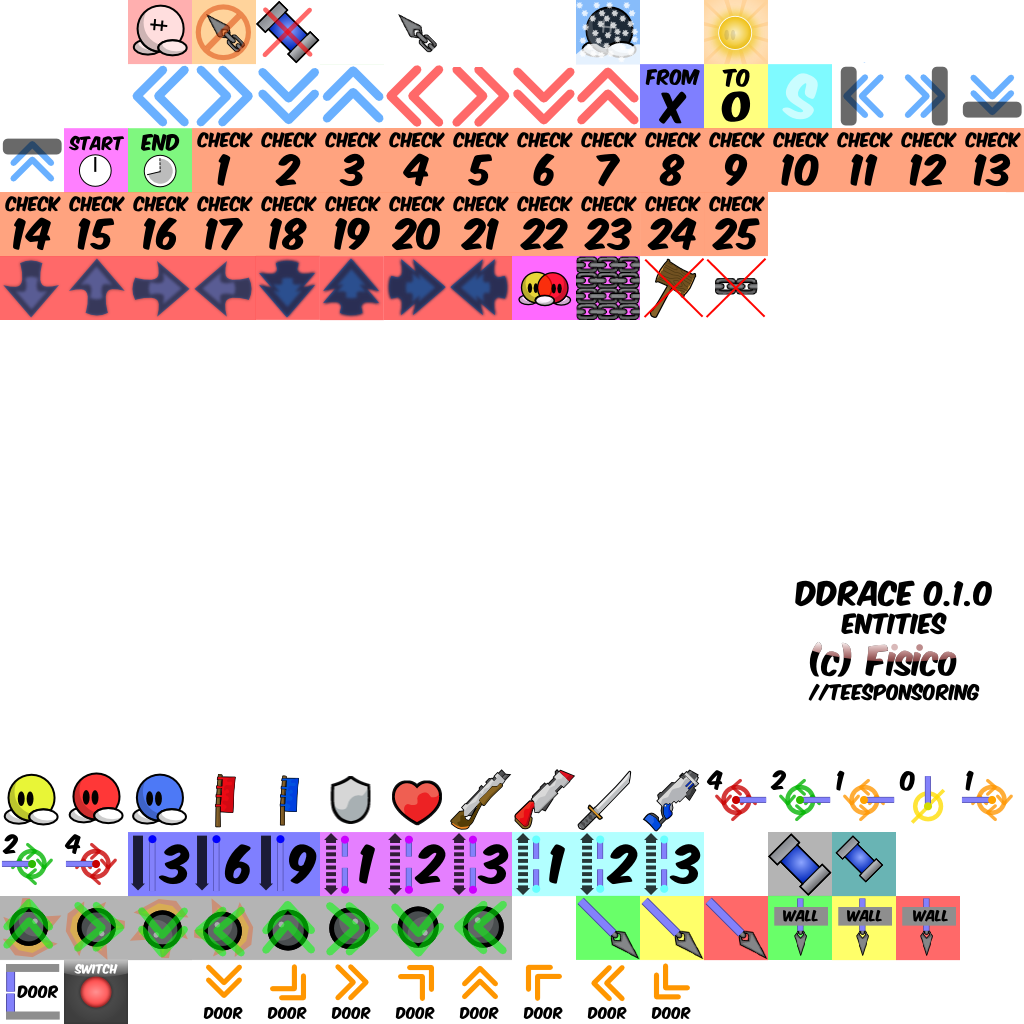
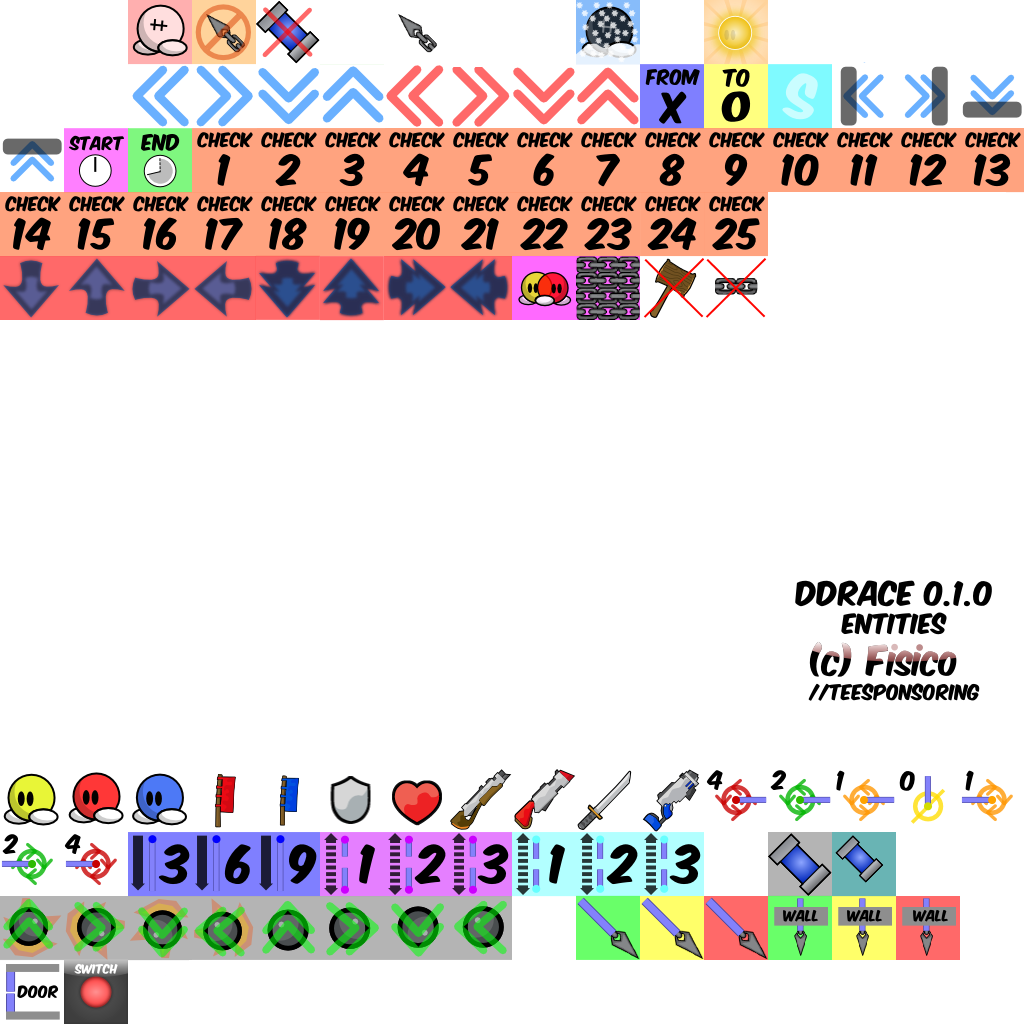
Removed Old Door System

Changed region(s): [[0.1875, 0.9375, 0.6875, 1.0]]

diff --git a/src/game/server/gamecontroller.cpp b/src/game/server/gamecontroller.cpp
@@ -152,19 +152,6 @@ bool IGameController::OnEntity(int Index, vec2 Pos, bool Front)
 	else if(Index == ENTITY_SPAWN_BLUE)
 		m_aaSpawnPoints[2][m_aNumSpawnPoints[2]++] = Pos;
 
-	if(Index == ENTITY_DOOR)
-	{
-		for(int i=0; i<8;i++)
-		{
-			if (sides[i] >= ENTITY_LASER_SHORT && sides[i] <= ENTITY_LASER_LONG)
-			{
-				CDoor * door = new CDoor(&GameServer()->m_World, Pos, pi/4*i, 32*3 + 32*(sides[i] - ENTITY_LASER_SHORT)*3, false);
-				//for (int j = 0; j < 8; j++)
-				//	if (j != i)
-						Connector(vec2(x, y), door, Front);
-			}
-		}
-	}
 	else if(Index >= ENTITY_CRAZY_SHOTGUN_U_EX && Index <= ENTITY_CRAZY_SHOTGUN_L_EX)
 	{
 		for (int i = 0; i < 4; i++)
@@ -329,29 +316,6 @@ vec2 GetSidePos(int side) {
 	case 7: return vec2(-1, 1);
 	}
 	return vec2(0, 0);
-}
-
-void IGameController::Connector(vec2 Pos, CDoor* Door, bool Front) {
-	int sides[8];
-	sides[0] = GameServer()->Collision()->Entity(Pos.x, Pos.y + 1, Front);
-	sides[1] = GameServer()->Collision()->Entity(Pos.x + 1, Pos.y + 1, Front);
-	sides[2] = GameServer()->Collision()->Entity(Pos.x + 1, Pos.y, Front);
-	sides[3] = GameServer()->Collision()->Entity(Pos.x + 1, Pos.y - 1, Front);
-	sides[4] = GameServer()->Collision()->Entity(Pos.x, Pos.y - 1, Front);
-	sides[5] = GameServer()->Collision()->Entity(Pos.x - 1, Pos.y - 1, Front);
-	sides[6] = GameServer()->Collision()->Entity(Pos.x - 1, Pos.y, Front);
-	sides[7] = GameServer()->Collision()->Entity(Pos.x - 1, Pos.y + 1, Front);
-	for (int i=0;i<8;i++)
-	{
-		vec2 shift = GetSidePos(i);
-		if (sides[i]==ENTITY_CONNECTOR_D+(i+4) % 8)
-			Connector(Pos + shift, Door, Front);
-		else if(sides[i]==ENTITY_TRIGGER)
-		{
-			vec2 pos((Pos.x + shift.x)*32.0f + 16.0f, (Pos.y + shift.y)*32.0f + 16.0f);
-			new CTrigger(&GameServer()->m_World,pos, Door);
-		}
-	}
 }
 
 void IGameController::EndRound()

diff --git a/src/game/server/gamecontroller.h b/src/game/server/gamecontroller.h
@@ -106,7 +106,6 @@ public:
 	*/
 	virtual bool OnEntity(int Index, vec2 Pos, bool Front);
 	
-	virtual void Connector(vec2 Pos, CDoor* Door, bool Front);
 	
 	/*
 		Function: on_CCharacter_spawn
